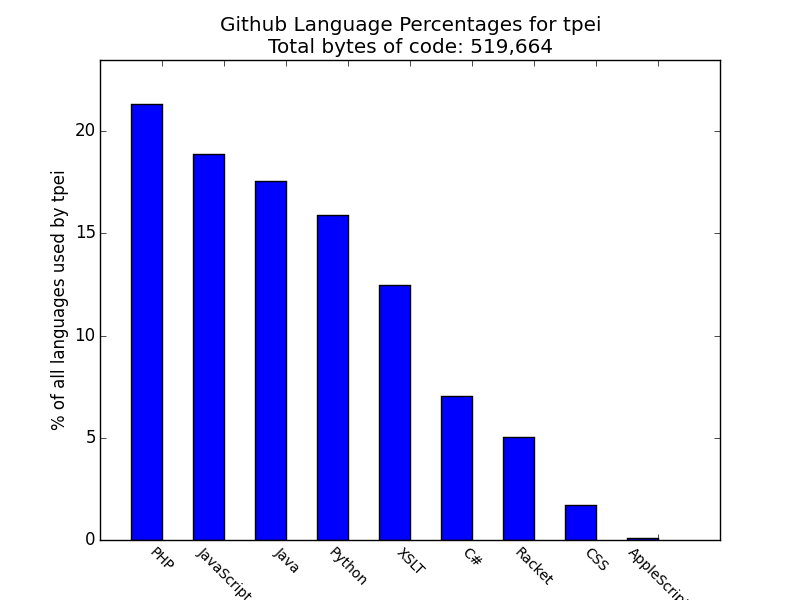
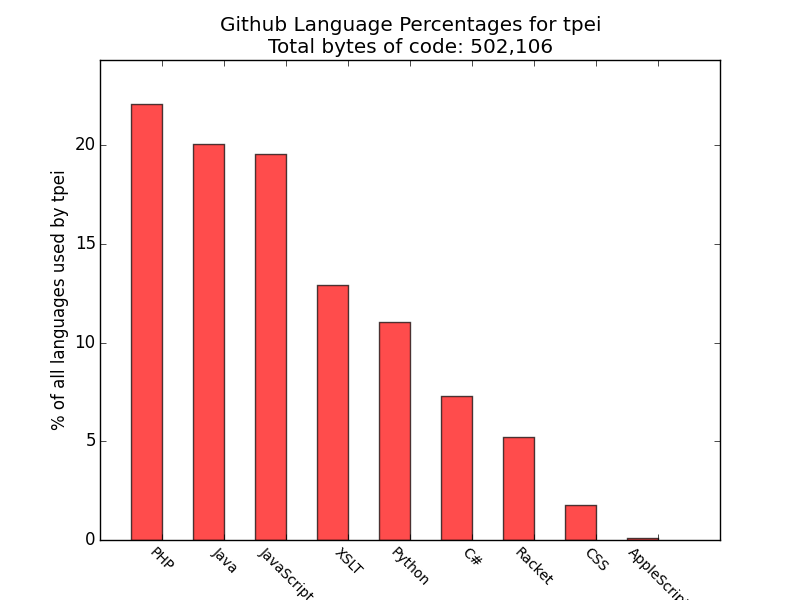
added pie chart visualisation

diff --git a/visualize.py b/visualize.py
@@ -52,6 +52,7 @@ def visualize_lang_percentages(user):
         values.append(i[1])
 
     create_bar_chart('Github Language Percentages for ' + user + "\nTotal bytes of code: " + '{0:,}'.format(bytes), '% of all languages used by ' + user, keys, values, user)
+    #render_pie_chart('Github Language Percentages for ' + user + "\nTotal bytes of code: " + '{0:,}'.format(bytes), keys, values)
 
 
 def visualize_repo_bytes(user):
@@ -121,7 +122,7 @@ def create_bar_chart(title, ylabel, keys, values, user):
     width = 0.5
 
     ## the bars
-    ax.bar(ind, values, width)
+    ax.bar(ind, values, width, alpha=0.7, color='r')
 
     # axes and labels
     ax.set_xlim(-width, len(ind)+width)
@@ -133,3 +134,28 @@ def create_bar_chart(title, ylabel, keys, values, user):
     xtickNames = ax.set_xticklabels(xTickMarks)
     plt.setp(xtickNames, rotation=-45, fontsize=10)
     plt.show()
+
+
+def render_pie_chart(title, keys, values):
+    """
+    create pie chart
+    :param title: title of chart
+    :param keys: lables
+    :param values: values
+    :return:
+    """
+    fig = plt.figure(title)
+    labels = keys
+    sizes = values
+    #colors = ['yellowgreen', 'gold', 'lightskyblue', 'lightcoral']
+    #explode = (0, 0.1, 0, 0) # only "explode" the 2nd slice (i.e. 'Hogs')
+
+    plt.pie(sizes, labels=labels,
+            autopct='%1.1f%%', shadow=True, startangle=90)
+    # Set aspect ratio to be equal so that pie is drawn as a circle.
+    plt.axis('equal')
+
+    plt.show()
+
+if __name__ == '__main__':
+    visualize_lang_percentages('tpei')
